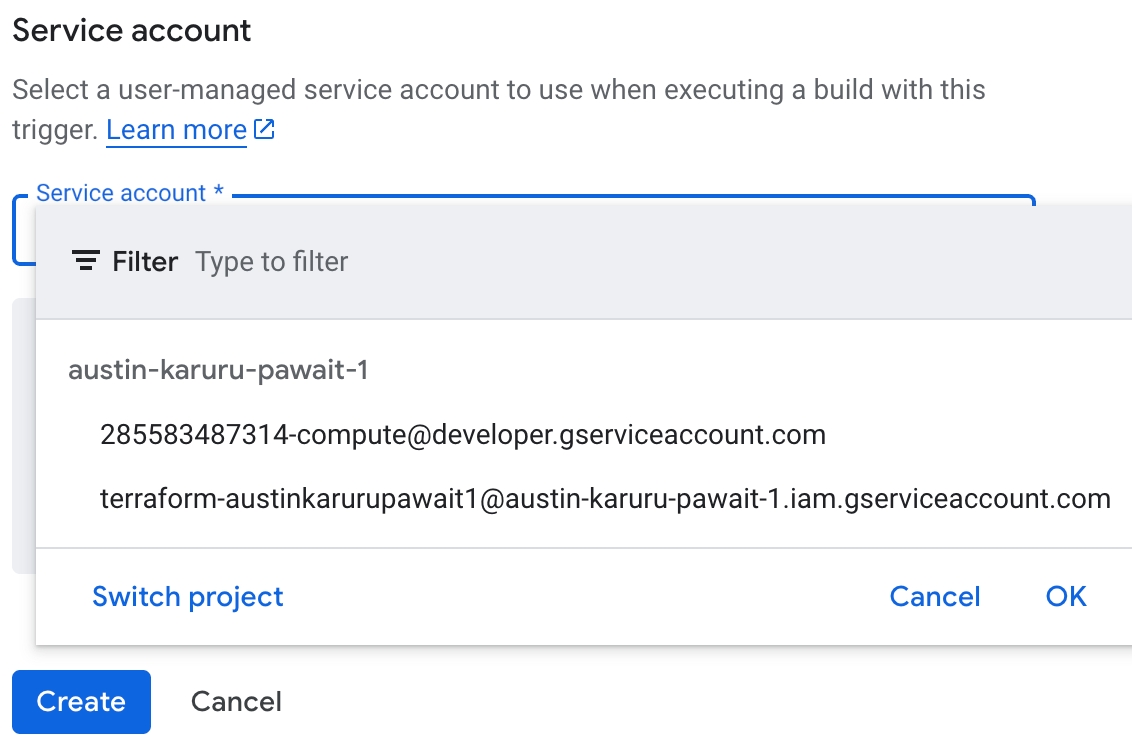
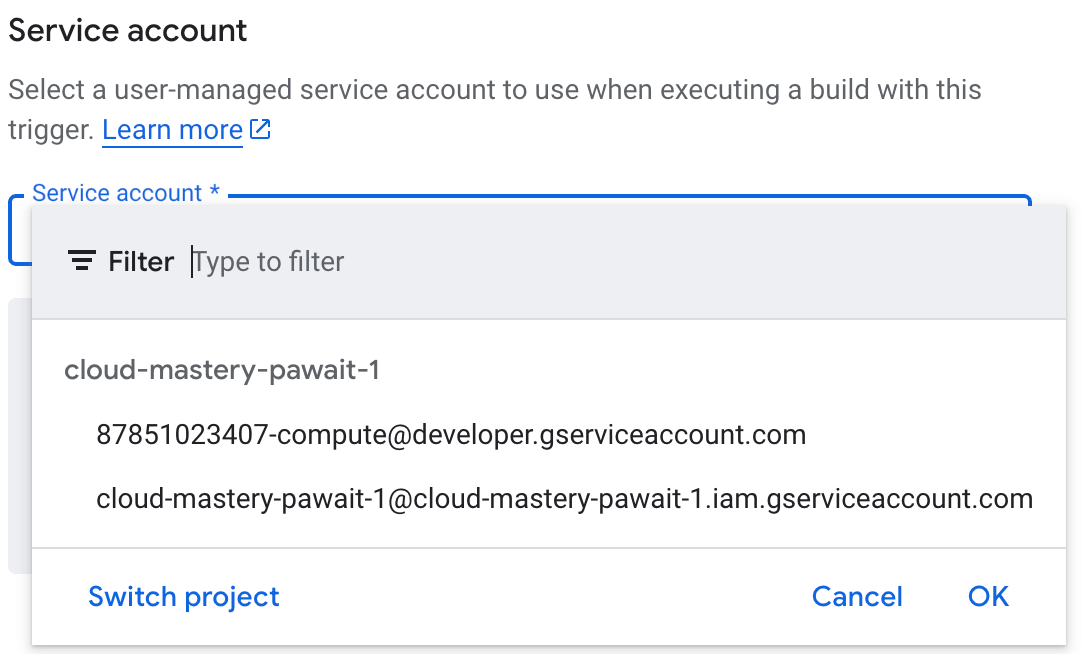
pushed changes to showcase git ops

diff --git a/docs/4-setup-cloud-build-backend.md b/docs/4-setup-cloud-build-backend.md
@@ -39,28 +39,57 @@ Now that we have our source code in a GitHub repository, we'll set up a continuo
     *   **Value**: This requires the public IP of your Cloud SQL instance. Open a **new tab** and navigate to the [Cloud SQL instances page](https://console.cloud.google.com/sql/instances). Copy the **Public IP address** of your instance.
         ![Copy Cloud SQL Public IP Address](assets/images/sql_instance_public_ip.png)
     *   Construct the connection string using the format below, replacing `<INSTANCE_IP_ADDRESS>` with the IP you just copied.
-        ```
-        mysql://student:project-id@<INSTANCE_IP_ADDRESS>:3306/cloud_mastery?sslmode=require
-        ```
+    *   Also replace `<PROJECT-ID>` with your Google Cloud Project ID
+
+        ````
+        mysql://student:<PROJECT-ID>@<INSTANCE_IP_ADDRESS>:3306/cloud_mastery?sslmode=require
+        ````
+        
     *   Paste the complete string into the **Value** field for the `_MYSQL_PRISMA_URL` variable.
         ![Add Substitution Variables](assets/images/cloud_build_substitution_variables.png)
-8.  **Service Account**: In the "Advanced" section, find the Service Account dropdown and select the service account that starts with `terraform-`. This account has the necessary permissions.
+8.  **Service Account**: In the "Advanced" section, find the Service Account dropdown and select the service account that starts with `cloud-mastery-`. This account has the necessary permissions.
 
     ![Select Service Account](assets/images/cloud_build_select_service_account.png)
 
 9.  Click **Create** to finalize the trigger.
 
-### Run the Trigger and Verify Deployment
+### Make and push changes to Github to trigger Cloud Build Trigger Deployment
 
-1.  You will be taken back to the Triggers list. Find your new trigger and click **Run**.
+1. Now head to back to your Cloud Shell & select on the Pencil icon to open the Editor within Cloud Shell
+    ![Open Editor](assets/images/click-pencil-icon-open-editor.png)
+2. Select the File Icon, it looks like 2 A4 Pages
+    ![Select File icon](assets/images/select-file-after-opening-editor.png)
+3. Proceed to Click on `OPEN FOLDER`
+    ![open folder](assets/images/click-open-folder.png)
+4. You should get a prompt to Open Folder, and select `OK`
+    ![OK to open folder](assets/images/select-ok-open-folder.png)
+5. The editor will now open your Cloud Mastery backend Folder.
+6. We can now proceed to make a change to our README.md file, so that we can push the changes to trigger the build.
+7. Select `README.md`
+    ![Select the readme file](assets/images/select-readme.png)
+8. You can make any change to any line that starts with `#`
+9. Once done, just go back to your Cloud shell, it should be at the bottom of the screen.
+10. Run the following commands in the specified sequence
 
-    ![Run the Trigger](assets/images/cloud_build_run_trigger.png)
+    ```bash
+    cd ~/cloud-mastery-backend
+    git config --global user.email "firstname.lastname1@train.pawait.co.ke"
+    
+    git config --global user.name "First Name Last Name"
+    
+    git add .
+    
+    git commit -m "initial commit"
+    
+    git push origin master
+    
+    ```
+    
+11. Runnning these commands will setup your git identity within the cloudshell.
+12. You will proceed to add and the commit the changes you have made before pushing to your forked repository.
+    ![successful push to backend repo](assets/images/successful-push.png)
 
-2.  A popup will appear. Confirm the branch is `master` and click **Run trigger**.
-
-    ![Confirm Run Trigger Popup](assets/images/cloud_build_run_trigger_popup.png)
-
-3.  You will be redirected to the **History** page. Click on the running build to view its progress.
+13. Go  to the **History** page within Cloud Build. Click on the running build to view its progress.
 
     ![Cloud Build History](assets/images/cloud_build_history.png)
     ![Cloud Build in Progress](assets/images/cloud_build_in_progress.png)

diff --git a/docs/7-accessing-the-application.md b/docs/7-accessing-the-application.md
@@ -1,34 +1,46 @@
 # 7. Run the Build & Access the Application
 
-This is the final step. We will manually run our newly created frontend trigger, which will build the frontend application and deploy it to Cloud Run. Once complete, we can access the public URL to see our live dashboard.
+This is the final step. We will make a change in the cloud mastery frontend repo and push the change, which will build the frontend application and deploy it to Cloud Run. Once complete, we can access the public URL to see our live dashboard.
 
 ### Run the Frontend Trigger
 
-1.  From the Cloud Build **Triggers** list, find your `cloud-mastery-frontend-deploy` trigger and click **Run**.
-2.  In the popup, confirm the branch name (`master`) and click **Run trigger**.
+1. Back on the Editor, you will see on the `EXPLORER` another directory named cloud-mastery-frontend.
+ ![select frontend folder](assets/images/frontend-cloudshell-folder.png)
+2. Just like before, select your README.md file under the `cloud-mastery-frontend` folder.
+ ![select readme under frontend folder](assets/images/select-readme-frontend.png
+3. You can make a change in this file, then just like with the backend, run the following chain of commands within cloud shell
+    ```
+    cd ~/cloud-mastery-frontend
+    git add .
+  
+    git commit -m "initial commit"
+    
+    git push origin master
+    
+    ```
+   
+4. You will proceed to add and the commit the changes you have made before pushing to your forked repository.
+    ![successful push to frontend repo](assets/images/cloud-master-frontend-push.png)
 
-    ![Run Frontend Trigger Popup](assets/images/cb_frontend_run_trigger_popup.png)
 
-### Monitor the Build and Access the Application
-
-1.  You will be taken to the **History** page. Click on the running build to monitor its progress.
-2.  This build will take less time compared to the cloud mastery backend build.
+5. Navigate to the **History** page within Cloud Build. Click on the running build to monitor its progress.
+6. This build will take less time compared to the cloud mastery backend build.
 
     ![Frontend Build History](assets/images/cb_frontend_history.png)
 
-3.  Once the build completes successfully, you are ready to see the application!
+7. Once the build completes successfully, you are ready to see the application!
 
     ![Frontend Build Successful](assets/images/cb_frontend_build_success.png)
 
-4.  Navigate to the **Cloud Run** page in the console.
+8. Navigate to the **Cloud Run** page in the console.
 
-5.  Click on the **`cloud-mastery-frontend`** service.
+9. Click on the **`cloud-mastery-frontend`** service.
 
-6.  At the top of the service details page, you will see the primary URL for the application. Click on it to open it in a new tab.
+10. At the top of the service details page, you will see the primary URL for the application. Click on it to open it in a new tab.
 
     ![Accessing the Frontend URL](assets/images/cr_access_frontend_url.png)
 
-7.  You should now see the fully deployed application dashboard!
+11. You should now see the fully deployed application dashboard!
 
     ![Final Application Dashboard](assets/images/final_app_dashboard.png)
 

diff --git a/readme.md b/readme.md
@@ -2,6 +2,7 @@
 [How to Deploy a Static site using mkdocs & netlify](https://collabnix.com/how-to-deploy-a-static-site-using-mkdocs-and-netlify/)
 
 # Installation Steps
+```bash
 brew install python
 brew install mkdocs
 
@@ -10,13 +11,13 @@ pipx install mkdocs
 ## Make apps globally accessible
 pipx ensurepath
 
-## Inject the windmill theme and plugins into the mkdocs environment
-pipx inject mkdocs mkdocs-windmill pymdown-extensions mkdocs-minify-plugin mkdocs-swagger-ui-tag
+## Inject the material theme and plugins into the mkdocs environment
+pipx inject mkdocs mkdocs-material pymdown-extensions mkdocs-minify-plugin mkdocs-swagger-ui-tag
 
 
 source ~/venv/mkdocs/bin/activate
 
-pip install mkdocs-windmill pymdown-extensions
+pip install mkdocs-material pymdown-extensions
 
 pip install mkdocs-minify-plugin
 
@@ -26,5 +27,5 @@ python3 -m venv ~/venv/mkdocs
 
 ## Running MKDOCS
 mkdocs serve
-
+```
 Access via http://127.0.0.1:8000 or localhost:8000

diff --git a/docs/1-prepare-gcp-environment.md b/docs/1-prepare-gcp-environment.md
@@ -18,7 +18,7 @@ The Cloud Shell provides a command-line environment directly in your browser, wi
 
 1.  Open the Cloud Shell by clicking on the **Activate Cloud Shell** icon in the top-right corner of the console, as highlighted below.
 
-    ![Activate Cloud Shell Icon](assets/images/gcp_cloud_shell_icon.png)
+    ![Activate Cloud Shell Icon](assets/images/cloud_shell_open_in_new_window.png)
 
 2.  A new frame will open at the bottom of your window. Click **Continue** to proceed.
 

diff --git a/docs/3-prepare-github-backend.md b/docs/3-prepare-github-backend.md
@@ -104,7 +104,7 @@ Now you can clone your forked repository.
     Replace the URL with your own forked repository SSH URL
 
     ```
-    git clone git@github.com:austinkaruru1/cloud-mastery-backend.git
+    git init && git clone git@github.com:austinkaruru1/cloud-mastery-backend.git
     ```
 
 3.  When prompted `Are you sure you want to continue connecting (yes/no/[fingerprint])?`, type `yes` and press `Enter`.
